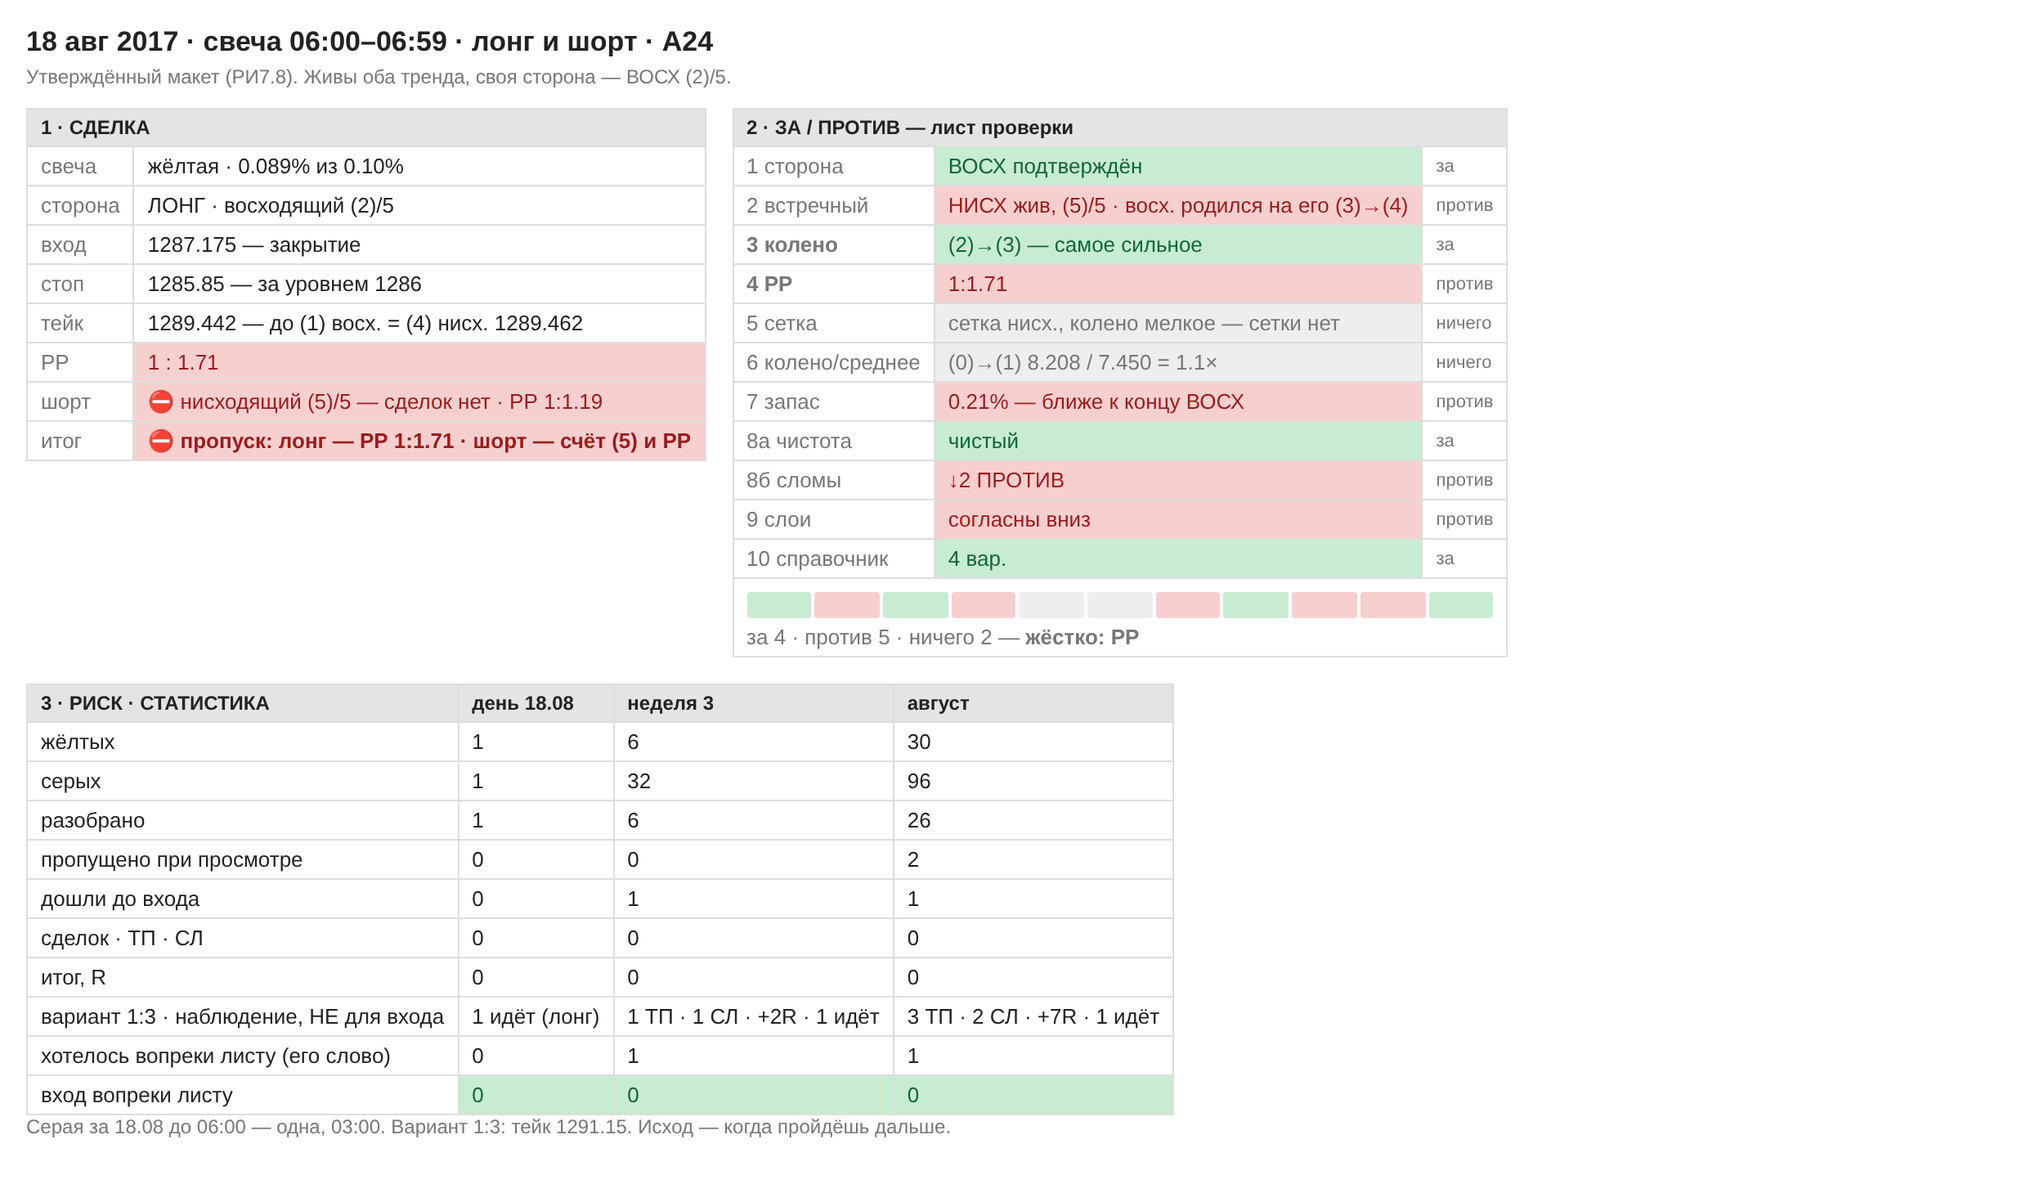
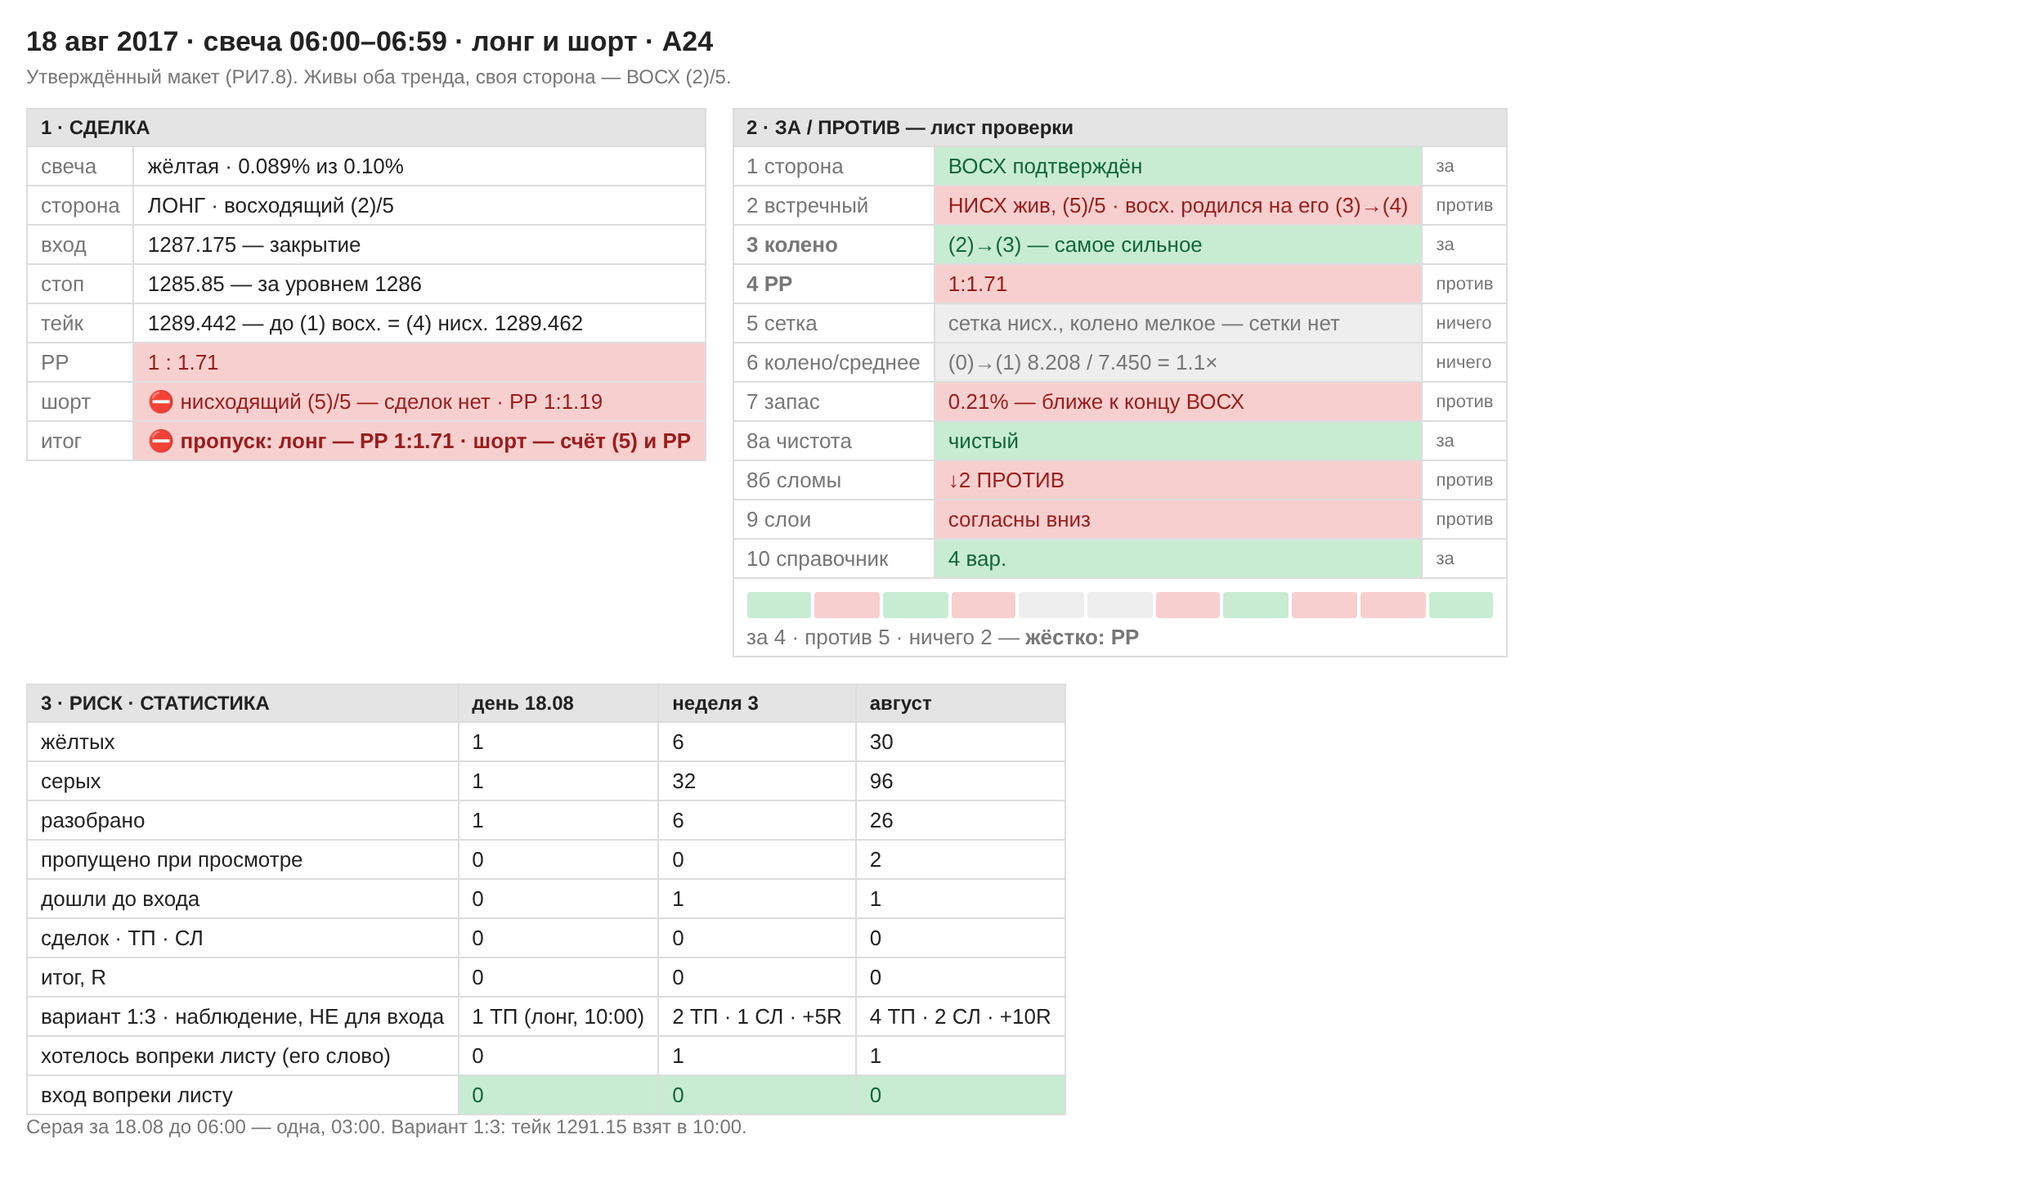
18 авг 06:00: вариант 1:3 — тейк в 10:00, его слово, сверено; В36 6 случаев, +10R
Claude-Session: https://claude.ai/code/session_01TnuyYeu48W8E686G1zottP

diff --git a/research/out/maket/2017-08-18_0600.html b/research/out/maket/2017-08-18_0600.html
@@ -6,4 +6,4 @@ table{border-collapse:collapse;min-width:360px}td,th{border:1px solid var(--ln);
 th{background:var(--h);font-size:12px}.blk td:first-child{color:var(--mut);white-space:nowrap}
 .g{background:var(--g);color:var(--gt)}.r{background:var(--r);color:var(--rt)}.n{background:var(--n);color:var(--mut)}
 .hard{font-weight:bold}.tag{font-size:11px;color:var(--mut)}
-.bar{display:flex;gap:2px;margin:4px 0}.bar span{flex:1;height:16px;border-radius:2px}</style></head><body><h1>18 авг 2017 · свеча 06:00–06:59 · лонг и шорт · А24</h1><p class="sub">Утверждённый макет (РИ7.8). Живы оба тренда, своя сторона — ВОСХ (2)/5.</p><div class="wrap"><table class="blk"><tr><th colspan="2">1 · СДЕЛКА</th></tr><tr><td>свеча</td><td class="">жёлтая · 0.089% из 0.10%</td></tr><tr><td>сторона</td><td class="">ЛОНГ · восходящий (2)/5</td></tr><tr><td>вход</td><td class="">1287.175 — закрытие</td></tr><tr><td>стоп</td><td class="">1285.85 — за уровнем 1286</td></tr><tr><td>тейк</td><td class="">1289.442 — до (1) восх. = (4) нисх. 1289.462</td></tr><tr><td>РР</td><td class="r">1 : 1.71</td></tr><tr><td>шорт</td><td class="r">⛔ нисходящий (5)/5 — сделок нет · РР 1:1.19</td></tr><tr><td>итог</td><td class="r hard">⛔ пропуск: лонг — РР 1:1.71 · шорт — счёт (5) и РР</td></tr></table><table class="blk"><tr><th colspan="3">2 · ЗА / ПРОТИВ — лист проверки</th></tr><tr><td class="">1 сторона</td><td class="g">ВОСХ подтверждён</td><td class="tag">за</td></tr><tr><td class="">2 встречный</td><td class="r">НИСХ жив, (5)/5 · восх. родился на его (3)→(4)</td><td class="tag">против</td></tr><tr><td class="hard">3 колено</td><td class="g">(2)→(3) — самое сильное</td><td class="tag">за</td></tr><tr><td class="hard">4 РР</td><td class="r">1:1.71</td><td class="tag">против</td></tr><tr><td class="">5 сетка</td><td class="n">сетка нисх., колено мелкое — сетки нет</td><td class="tag">ничего</td></tr><tr><td class="">6 колено/среднее</td><td class="n">(0)→(1) 8.208 / 7.450 = 1.1×</td><td class="tag">ничего</td></tr><tr><td class="">7 запас</td><td class="r">0.21% — ближе к концу ВОСХ</td><td class="tag">против</td></tr><tr><td class="">8а чистота</td><td class="g">чистый</td><td class="tag">за</td></tr><tr><td class="">8б сломы</td><td class="r">↓2 ПРОТИВ</td><td class="tag">против</td></tr><tr><td class="">9 слои</td><td class="r">согласны вниз</td><td class="tag">против</td></tr><tr><td class="">10 справочник</td><td class="g">4 вар.</td><td class="tag">за</td></tr><tr><td colspan="3"><div class="bar"><span class="g"></span><span class="r"></span><span class="g"></span><span class="r"></span><span class="n"></span><span class="n"></span><span class="r"></span><span class="g"></span><span class="r"></span><span class="r"></span><span class="g"></span></div>за 4 · против 5 · ничего 2 — <b>жёстко: РР</b></td></tr></table><table><tr><th>3 · РИСК · СТАТИСТИКА</th><th>день 18.08</th><th>неделя 3</th><th>август</th></tr><tr><td>жёлтых</td><td class="">1</td><td class="">6</td><td class="">30</td></tr><tr><td>серых</td><td class="">1</td><td class="">32</td><td class="">96</td></tr><tr><td>разобрано</td><td class="">1</td><td class="">6</td><td class="">26</td></tr><tr><td>пропущено при просмотре</td><td class="">0</td><td class="">0</td><td class="">2</td></tr><tr><td>дошли до входа</td><td class="">0</td><td class="">1</td><td class="">1</td></tr><tr><td>сделок · ТП · СЛ</td><td class="">0</td><td class="">0</td><td class="">0</td></tr><tr><td>итог, R</td><td class="">0</td><td class="">0</td><td class="">0</td></tr><tr><td>вариант 1:3 · наблюдение, НЕ для входа</td><td class="">1 идёт (лонг)</td><td class="">1 ТП · 1 СЛ · +2R · 1 идёт</td><td class="">3 ТП · 2 СЛ · +7R · 1 идёт</td></tr><tr><td>хотелось вопреки листу (его слово)</td><td class="">0</td><td class="">1</td><td class="">1</td></tr><tr><td>вход вопреки листу</td><td class="g">0</td><td class="g">0</td><td class="g">0</td></tr></table></div><p class="sub">Серая за 18.08 до 06:00 — одна, 03:00. Вариант 1:3: тейк 1291.15. Исход — когда пройдёшь дальше.</p></body></html>
+.bar{display:flex;gap:2px;margin:4px 0}.bar span{flex:1;height:16px;border-radius:2px}</style></head><body><h1>18 авг 2017 · свеча 06:00–06:59 · лонг и шорт · А24</h1><p class="sub">Утверждённый макет (РИ7.8). Живы оба тренда, своя сторона — ВОСХ (2)/5.</p><div class="wrap"><table class="blk"><tr><th colspan="2">1 · СДЕЛКА</th></tr><tr><td>свеча</td><td class="">жёлтая · 0.089% из 0.10%</td></tr><tr><td>сторона</td><td class="">ЛОНГ · восходящий (2)/5</td></tr><tr><td>вход</td><td class="">1287.175 — закрытие</td></tr><tr><td>стоп</td><td class="">1285.85 — за уровнем 1286</td></tr><tr><td>тейк</td><td class="">1289.442 — до (1) восх. = (4) нисх. 1289.462</td></tr><tr><td>РР</td><td class="r">1 : 1.71</td></tr><tr><td>шорт</td><td class="r">⛔ нисходящий (5)/5 — сделок нет · РР 1:1.19</td></tr><tr><td>итог</td><td class="r hard">⛔ пропуск: лонг — РР 1:1.71 · шорт — счёт (5) и РР</td></tr></table><table class="blk"><tr><th colspan="3">2 · ЗА / ПРОТИВ — лист проверки</th></tr><tr><td class="">1 сторона</td><td class="g">ВОСХ подтверждён</td><td class="tag">за</td></tr><tr><td class="">2 встречный</td><td class="r">НИСХ жив, (5)/5 · восх. родился на его (3)→(4)</td><td class="tag">против</td></tr><tr><td class="hard">3 колено</td><td class="g">(2)→(3) — самое сильное</td><td class="tag">за</td></tr><tr><td class="hard">4 РР</td><td class="r">1:1.71</td><td class="tag">против</td></tr><tr><td class="">5 сетка</td><td class="n">сетка нисх., колено мелкое — сетки нет</td><td class="tag">ничего</td></tr><tr><td class="">6 колено/среднее</td><td class="n">(0)→(1) 8.208 / 7.450 = 1.1×</td><td class="tag">ничего</td></tr><tr><td class="">7 запас</td><td class="r">0.21% — ближе к концу ВОСХ</td><td class="tag">против</td></tr><tr><td class="">8а чистота</td><td class="g">чистый</td><td class="tag">за</td></tr><tr><td class="">8б сломы</td><td class="r">↓2 ПРОТИВ</td><td class="tag">против</td></tr><tr><td class="">9 слои</td><td class="r">согласны вниз</td><td class="tag">против</td></tr><tr><td class="">10 справочник</td><td class="g">4 вар.</td><td class="tag">за</td></tr><tr><td colspan="3"><div class="bar"><span class="g"></span><span class="r"></span><span class="g"></span><span class="r"></span><span class="n"></span><span class="n"></span><span class="r"></span><span class="g"></span><span class="r"></span><span class="r"></span><span class="g"></span></div>за 4 · против 5 · ничего 2 — <b>жёстко: РР</b></td></tr></table><table><tr><th>3 · РИСК · СТАТИСТИКА</th><th>день 18.08</th><th>неделя 3</th><th>август</th></tr><tr><td>жёлтых</td><td class="">1</td><td class="">6</td><td class="">30</td></tr><tr><td>серых</td><td class="">1</td><td class="">32</td><td class="">96</td></tr><tr><td>разобрано</td><td class="">1</td><td class="">6</td><td class="">26</td></tr><tr><td>пропущено при просмотре</td><td class="">0</td><td class="">0</td><td class="">2</td></tr><tr><td>дошли до входа</td><td class="">0</td><td class="">1</td><td class="">1</td></tr><tr><td>сделок · ТП · СЛ</td><td class="">0</td><td class="">0</td><td class="">0</td></tr><tr><td>итог, R</td><td class="">0</td><td class="">0</td><td class="">0</td></tr><tr><td>вариант 1:3 · наблюдение, НЕ для входа</td><td class="">1 ТП (лонг, 10:00)</td><td class="">2 ТП · 1 СЛ · +5R</td><td class="">4 ТП · 2 СЛ · +10R</td></tr><tr><td>хотелось вопреки листу (его слово)</td><td class="">0</td><td class="">1</td><td class="">1</td></tr><tr><td>вход вопреки листу</td><td class="g">0</td><td class="g">0</td><td class="g">0</td></tr></table></div><p class="sub">Серая за 18.08 до 06:00 — одна, 03:00. Вариант 1:3: тейк 1291.15 взят в 10:00.</p></body></html>

diff --git a/indicator/ТАБЛО-НА-СВЕЧЕ.md b/indicator/ТАБЛО-НА-СВЕЧЕ.md
@@ -36,7 +36,7 @@
 | 16 авг 06:00 | А21 | скрин | **ВОСХ** / **НИСХ** | (2)·(3) предв. / **(5)** | ↑ чистый, ↓8 ПРОТИВ · ↓ чистый, ↓8 за | согласны (вниз) | 0.27% = 0.27% | 4.047 / 7.295 | НИСХ `(4)→(5)`, 0.482 — между | лонг 1:1.69 · шорт 1:1.80 | пропуск: лонг — колено, РР; шорт — (5) | лонг — **стоп** в 09:00 |
 | 16 авг 07:00 | А22 | скрин | ВОСХ / **НИСХ** | (3) / **(0)** продолж. | ↑ чистый, ↓8 ПРОТИВ · ↓ чистый, ↓8 за | спорят | ↓ 0.04% | 3.023 / 6.839 | у ВОСХ колено мелкое — сетки нет | **шорт 1:3.08 ✅** | ⭐ **дошла до входа** · его решение — **пропуск** («в шорт не смог бы»); тянуло в лонг вопреки листу — остановил лист | шорт — **тейк** в 09:00 (упущено +3.08R) · лонг — **стоп** |
 | 17 авг 07:00 | А23 | скрин | **ВОСХ** / умер | **(5)** / — | ↑ манипуляция, ↑5 за, вне справ. | согласны (вверх) | 1.64% | 21.770 / 7.750 | ВОСХ `(4)→(5)`, 0.094 — между | лонг 1:3.34 | пропуск: счёт (5), сетка | лонг — **стоп** в 09:00, (5) уберёг 1R |
-| 18 авг 06:00 | А24 | скрин | **ВОСХ** / **НИСХ** | (2) / **(5)** | ↑ чистый, ↓2 ПРОТИВ · ↓ чистый, ↓2 за | согласны (вниз) | 0.21% (ближе к концу) | 8.208 / 7.450 (данные) | у НИСХ колено мелкое — сетки нет | лонг 1:1.71 · шорт 1:1.19 | пропуск: лонг — РР; шорт — (5), РР | — идёт |
+| 18 авг 06:00 | А24 | скрин | **ВОСХ** / **НИСХ** | (2) / **(5)** | ↑ чистый, ↓2 ПРОТИВ · ↓ чистый, ↓2 за | согласны (вниз) | 0.21% (ближе к концу) | 8.208 / 7.450 (данные) | у НИСХ колено мелкое — сетки нет | лонг 1:1.71 · шорт 1:1.19 | пропуск: лонг — РР; шорт — (5), РР | лонг — тейк у вершины **взят** в 10:00 (и 1:3 тоже) |
 
 ⚠ **8 авг 03:00 — табло на бар позади.** На закрытии свечи было уже
 **(2)** и **ВОСХ**; на графике он видел (1) и «возможен» — З77, починено в
@@ -182,11 +182,11 @@ v3.44 (на проверке).
 | 11 авг 02:00 | лонг | 1286.694 | 1285.85 | 1287.905 | 1:1.43 | **1289.226** | 1.30 | ⛔ **не все**: (5) предв., сетка — пишем, его слово «да, оставляй» | ⛔ **стоп** в 04:00 |
 | 15 авг 11:00 | шорт | 1274.8655 | 1276.15 | 1272.427 | 1:1.90 | **1271.012** | 1.40 | ⛔ **не все**: сетка | ✅ **тейк** в 15:00 |
 | 16 авг 06:00 | лонг | 1273.078 | 1271.85 | 1275.156 | 1:1.69 | **1276.762** | 1.59 | ⛔ **не все**: (3) предв., сетка, сломы, запас | ⛔ **стоп** в 09:00 |
-| 18 авг 06:00 | лонг | 1287.175 | 1285.85 | 1289.442 | 1:1.71 | **1291.150** | 1.69 | ⛔ **не все**: запас, сломы, слои, встречный жив | — идёт |
+| 18 авг 06:00 | лонг | 1287.175 | 1285.85 | 1289.442 | 1:1.71 | **1291.150** | 1.69 | ⛔ **не все**: запас, сломы, слои, встречный жив | ✅ **тейк** в 10:00 (макс. 1295.042), стоп не задет — минимум после входа 1286.813 |
 
 Тейк до вершины (3) 1267.246 был бы взят тоже в 10:00 — у обеих свечей.
 
-**Итог пяти случаев В36:** 3 тейка (9 авг ×2 — спорно «все за»; 15 авг — «не все за») · 2 стопа (11 авг, 16 авг — оба «не все за») → **+7R**. Пять случаев — не вывод. **Наблюдение, НЕ правило входа** (А22).
+**Итог шести случаев В36:** 4 тейка (9 авг ×2 — спорно «все за»; 15 авг и 18 авг — «не все за») · 2 стопа (11 авг, 16 авг — оба «не все за») → **+10R**. Шесть случаев — не вывод. ~~Итог пяти: +7R.~~ **Наблюдение, НЕ правило входа** (А22).
 
 ⚠ **9 августа — пример ли это «все за»?** По его правилу колен на (3)/5
 лонг не берётся, то есть не всё за. Показываю расхождение, не выбираю:

diff --git a/indicator/КАК-ТОРГУЮ.md b/indicator/КАК-ТОРГУЮ.md
@@ -3468,3 +3468,13 @@ HL 1285.996 (18 авг 04:00). То есть восходящий родился
 вопреки листу» — спрошено.
 
 **Ответ, 18.11.2026:** «нет, желания не было». «Хотелось вопреки листу» — **0**.
+
+#### ИСХОД 18 авг 06:00 — его слово «тейк». Сверено
+
+| | вход | стоп | тейк | исход |
+|---|---|---|---|---|
+| лонг, вариант 1:3 (В36) | 1287.175 | 1285.85 | 1291.15 | ✅ **тейк** в 10:00, макс. 1295.042; минимум после входа 1286.813 — стоп не задет |
+| лонг до вершины, РР 1:1.71 — не сделка по листу | 1287.175 | 1285.85 | 1289.442 | взят бы там же, в 10:00 |
+
+В36 теперь: **6 случаев, 4 тейка · 2 стопа, +10R**. «Не все за» — 4 случая,
+2 тейка и 2 стопа. Наблюдение, не правило входа (А22).
